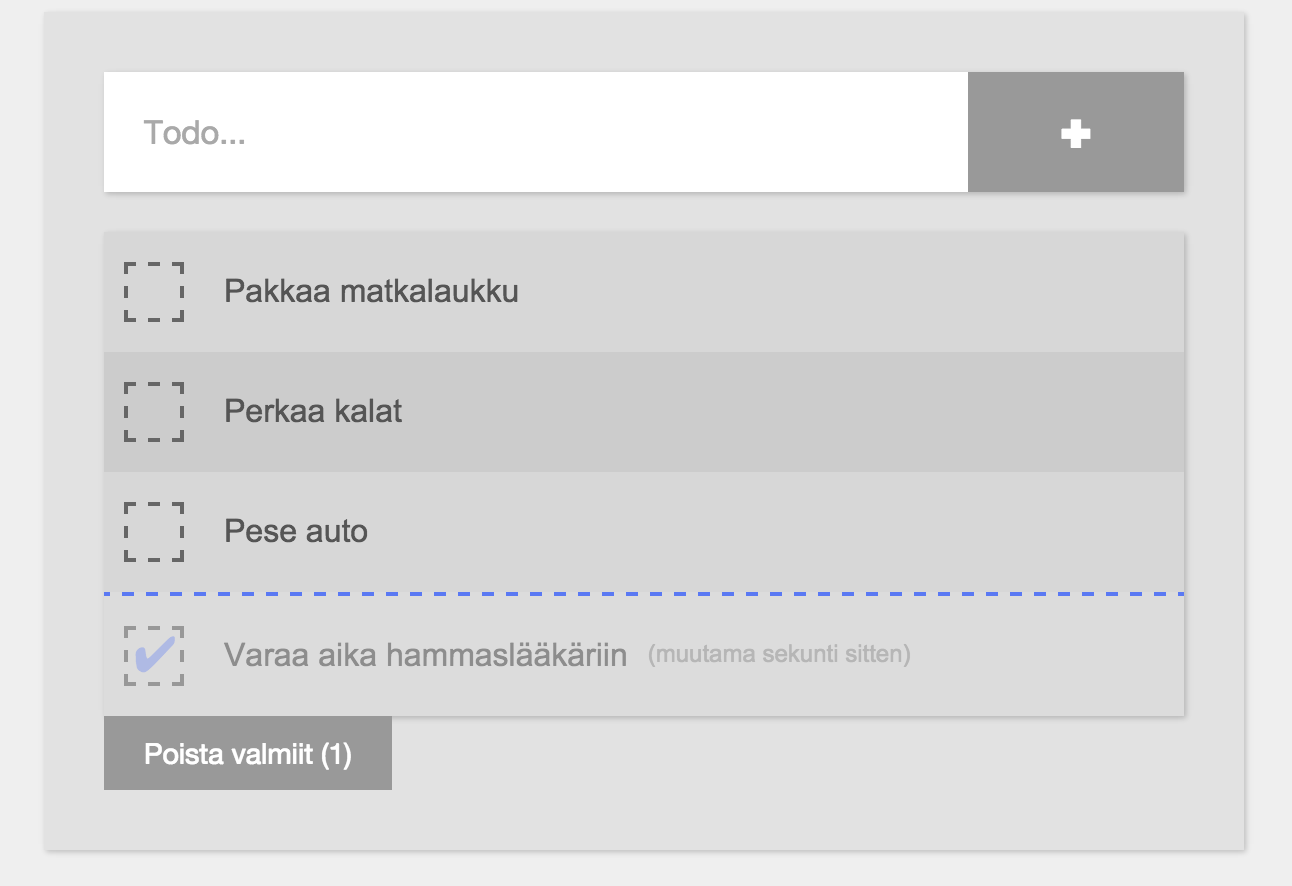
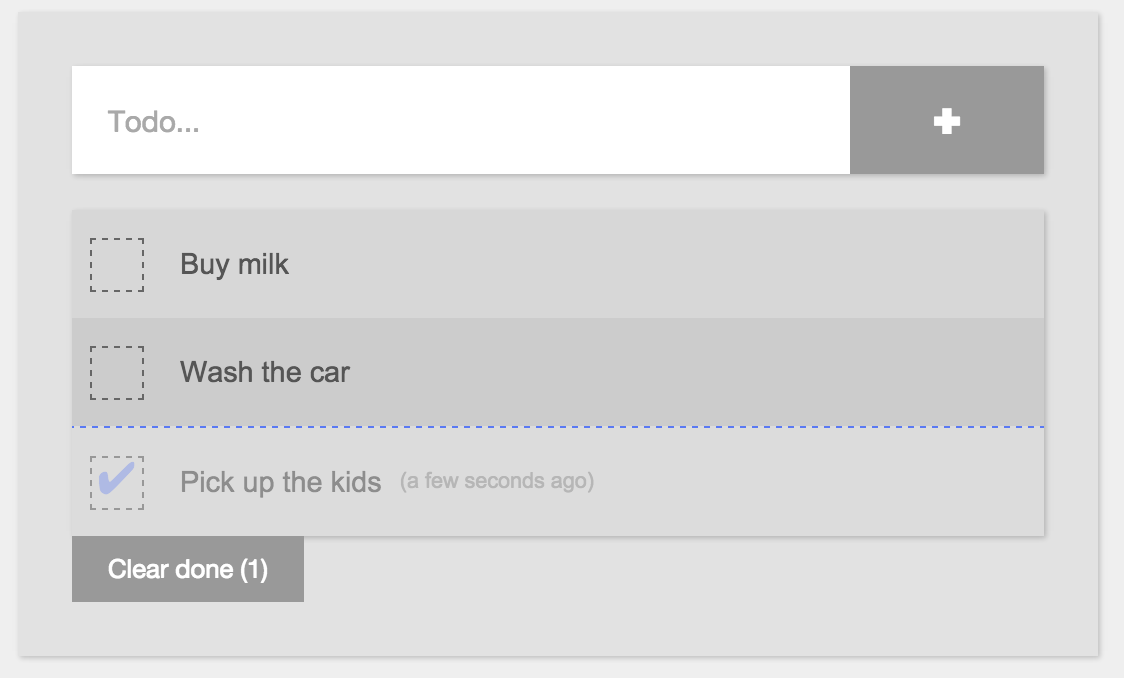
switched to english

diff --git a/index.html b/index.html
@@ -11,7 +11,6 @@
     <script src="bower_components/react/react-with-addons.min.js"></script>
     <script src="bower_components/fastclick/lib/fastclick.js"></script>
     <script src="bower_components/moment/min/moment.min.js"></script>
-    <script src="bower_components/moment/locale/fi.js"></script>
     <script src="node_modules/underscore/underscore.js"></script>
     <script src="JEvents.js"></script>
     <script src="react_components.js"></script>

diff --git a/components/todo/TodoClear.js b/components/todo/TodoClear.js
@@ -10,7 +10,7 @@ var TodoClear = React.createClass({
 
     return (
       <div className={hideBtn === true ? 'hide' : ''}>
-        <button onClick={this.handleClick}>Poista valmiit ({doneCount})</button>
+        <button onClick={this.handleClick}>Clear done ({doneCount})</button>
       </div>
       )
   }

diff --git a/app.js b/app.js
@@ -1,5 +1,4 @@
 var jevents = new JEvents();
-moment.locale("fi");
 
 React.render(
   React.createElement(Todo, null),

diff --git a/README.md b/README.md
@@ -1,6 +1,6 @@
 Testing Reactjs
 =============
-This is a small todo-app built with Reactjs. (Finnish)
+This is a small todo-app built with Reactjs.
 
 To run the project:
 
